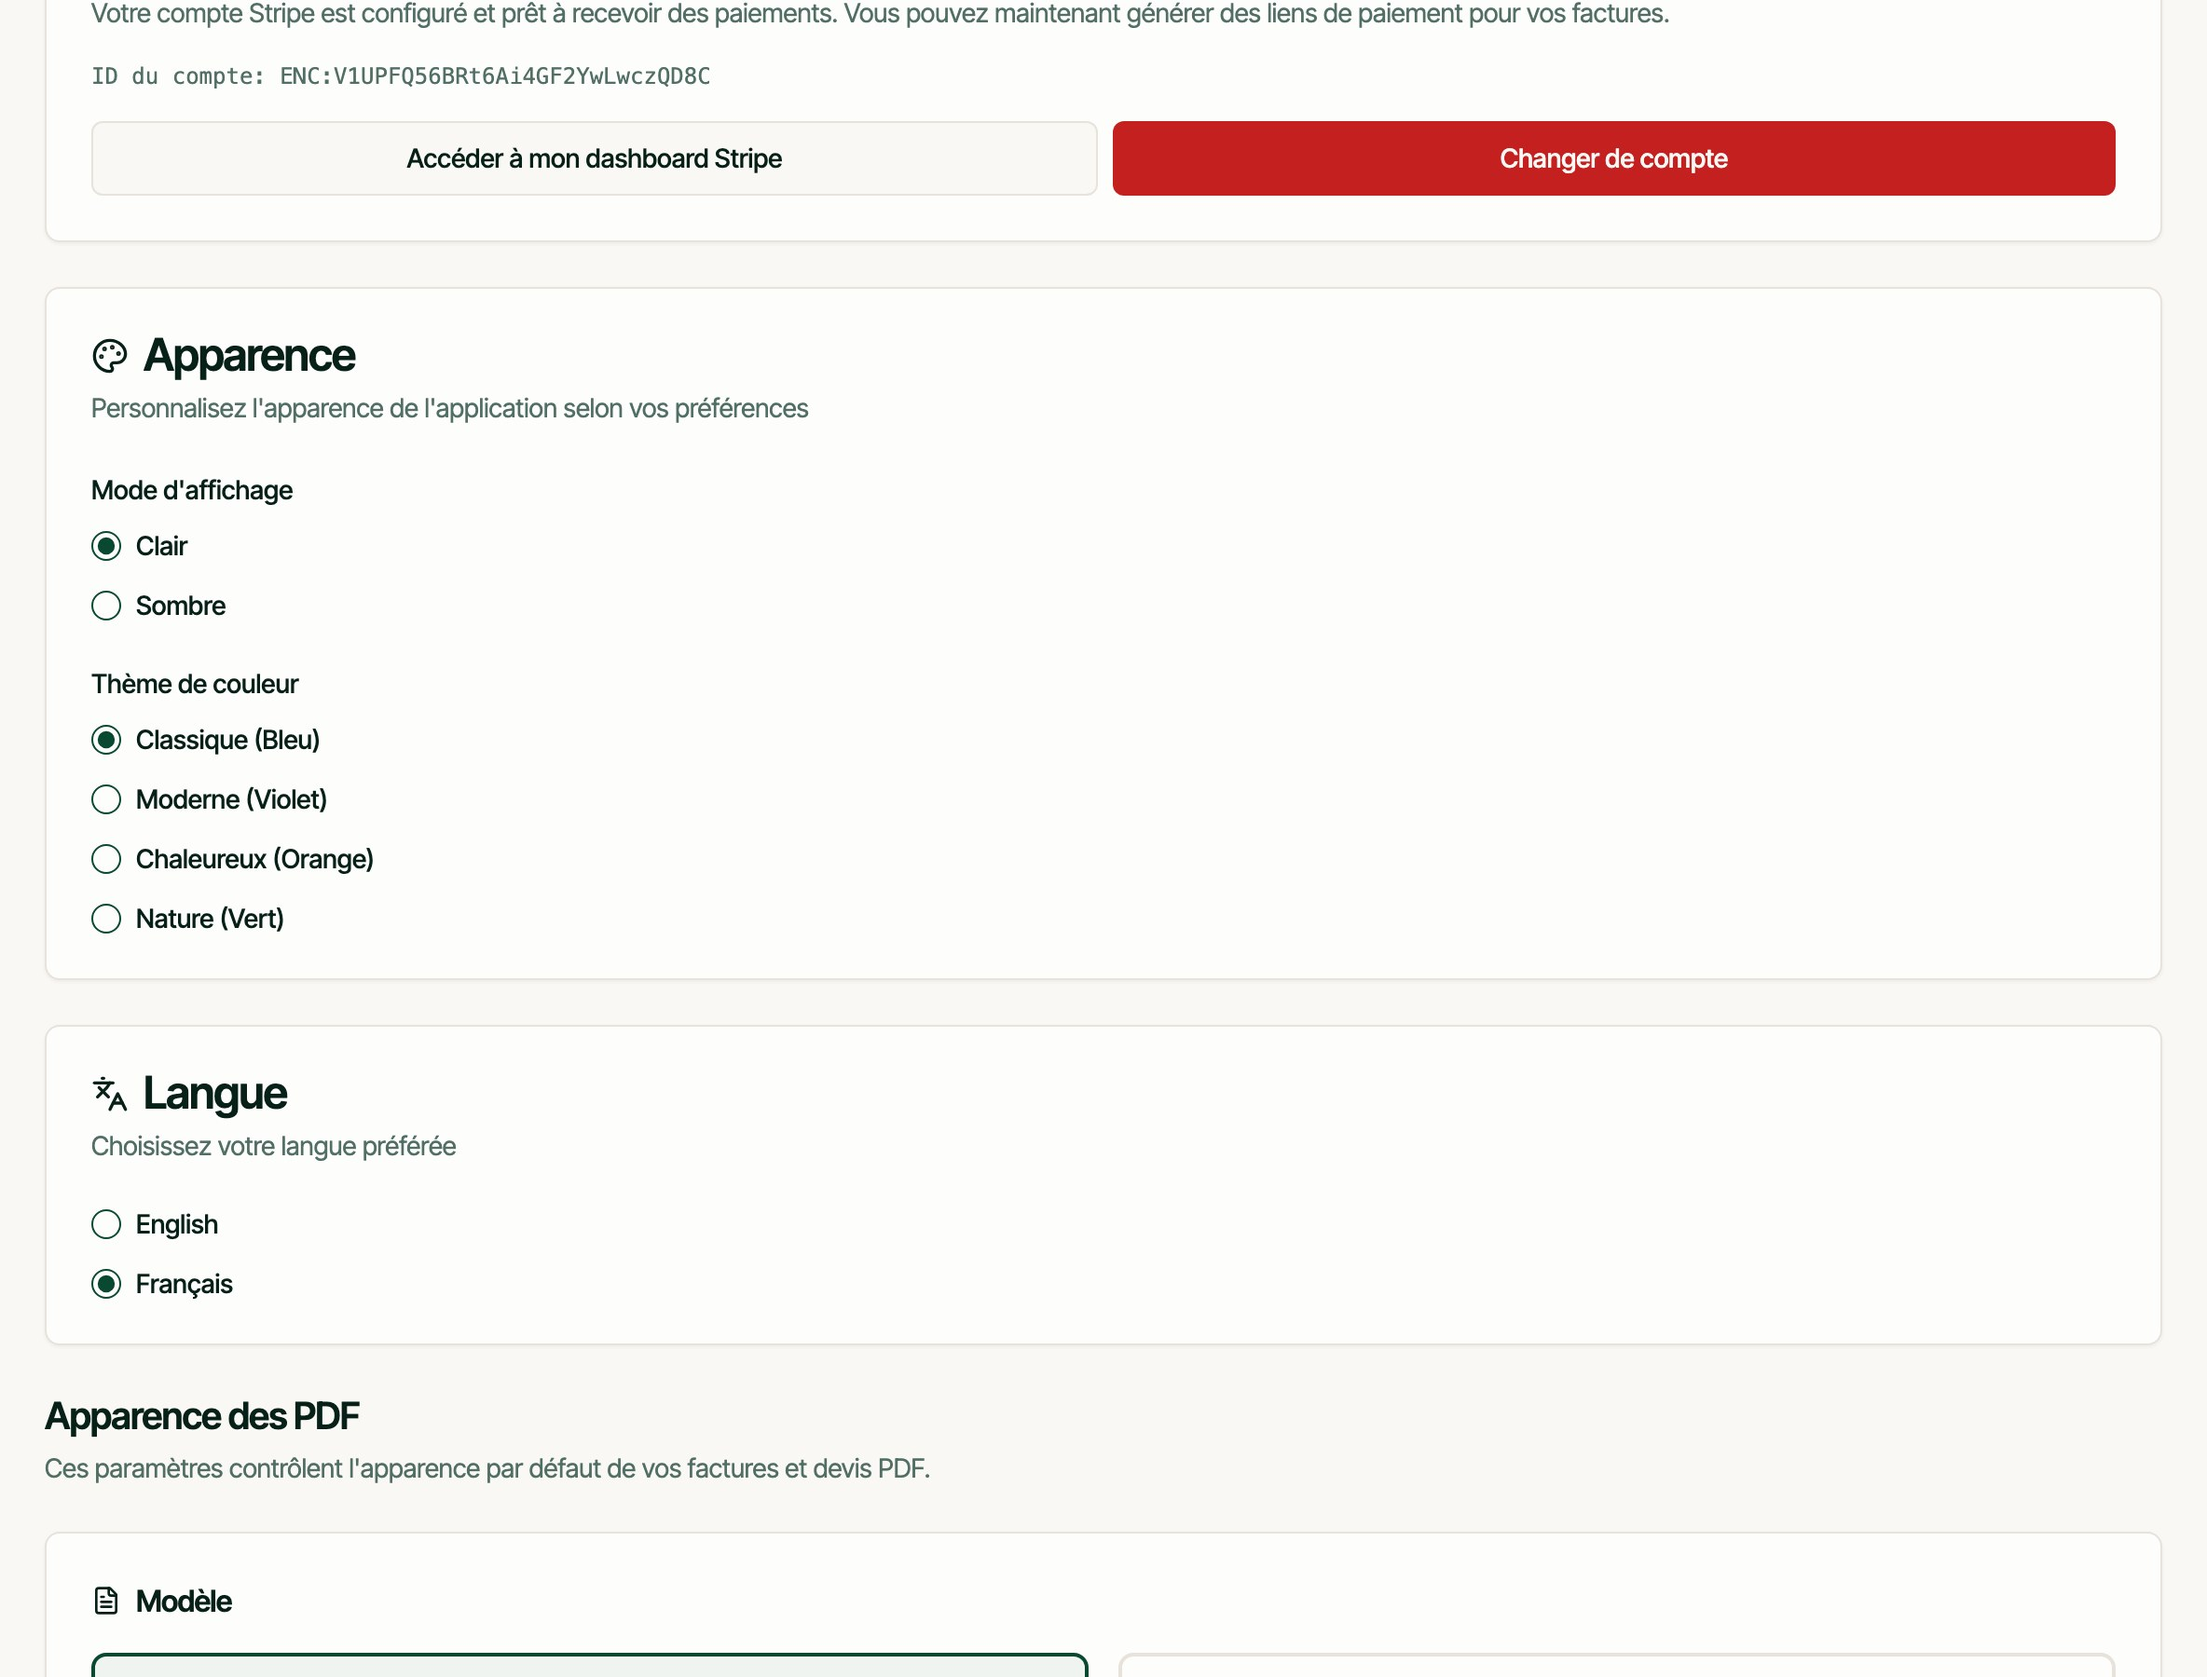
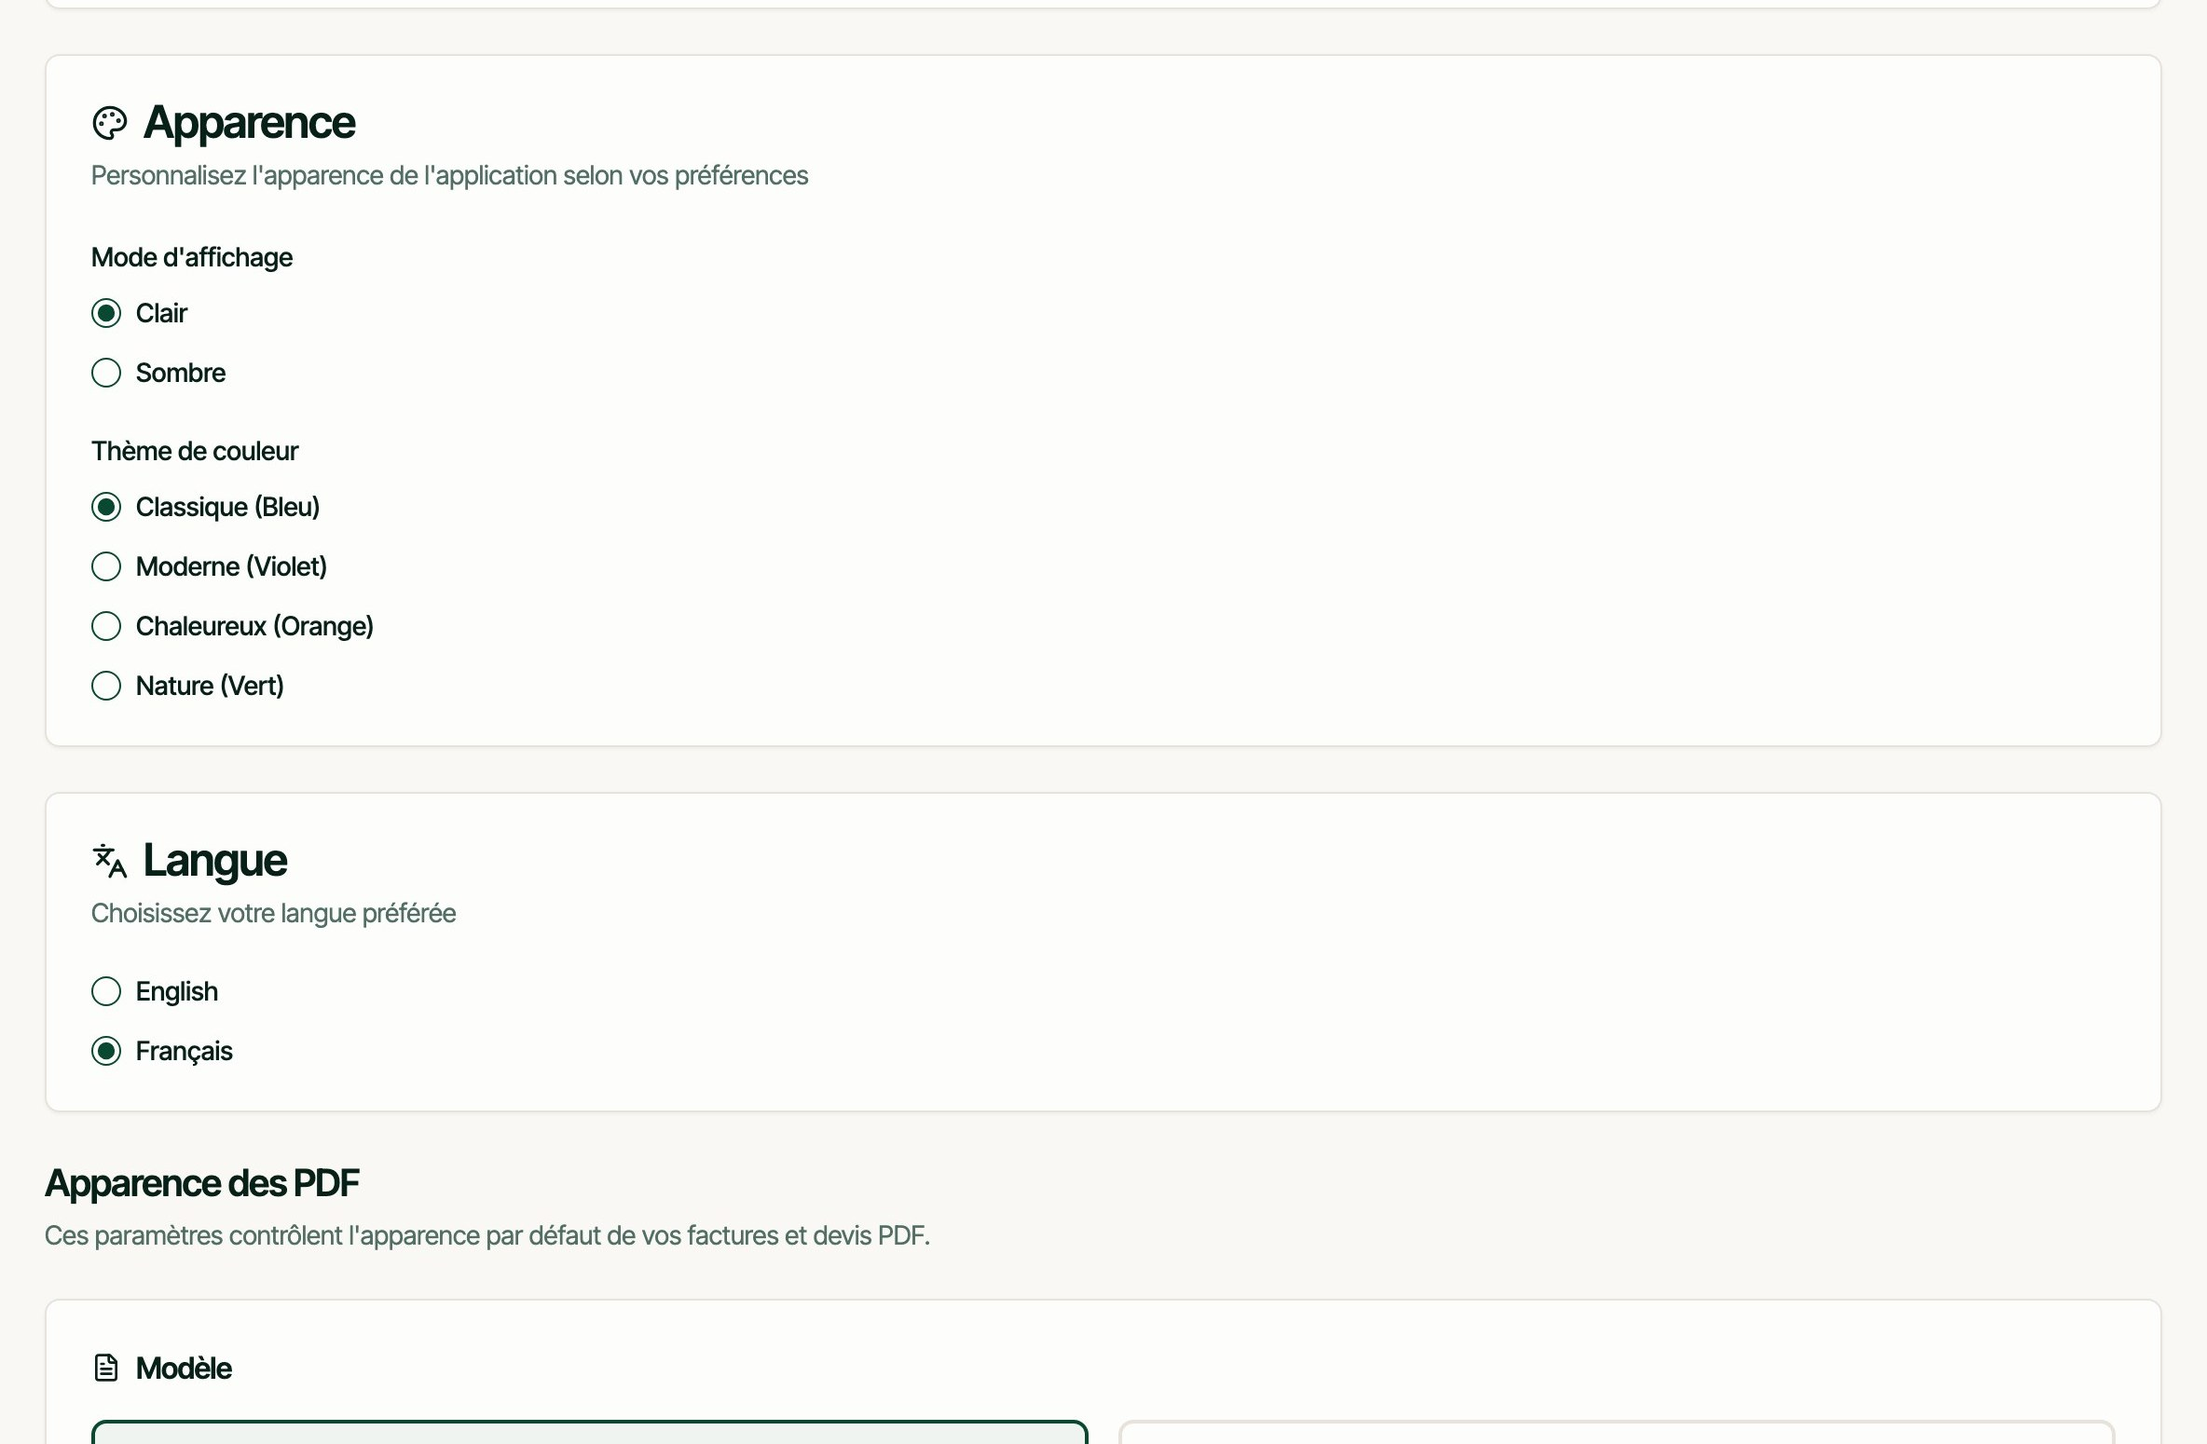
Hide Stripe account IDs from settings and marketing screenshots
Remove the account identifier from the Stripe payments card and replace the Software tab previews so the number is no longer visible.

diff --git a/src/pages/Settings.tsx b/src/pages/Settings.tsx
@@ -996,13 +996,6 @@ Cordialement,
                       ? "Votre compte Stripe est configuré et prêt à recevoir des paiements. Vous pouvez maintenant générer des liens de paiement pour vos factures." 
                       : "Your Stripe account is set up and ready to receive payments. You can now generate payment links for your invoices."}
                   </p>
-                  {/* Account ID only visible to Owner */}
-                  {isOwner && stripeAccountId && (
-                    <p className="text-xs text-muted-foreground font-mono">
-                      {language === "fr" ? "ID du compte: " : "Account ID: "}
-                      {stripeAccountId}
-                    </p>
-                  )}
                   {/* Action buttons only visible to Owner */}
                   {isOwner && (
                     <div className="flex gap-2">
@@ -1061,12 +1054,6 @@ Cordialement,
                           ? "Vous avez commencé la configuration de votre compte Stripe mais ne l'avez pas terminée. Vous pouvez continuer ou annuler pour changer de compte." 
                           : "You started setting up your Stripe account but didn't complete it. You can continue or cancel to change accounts."}
                       </p>
-                      {stripeAccountId && (
-                        <p className="text-xs text-muted-foreground font-mono">
-                          {language === "fr" ? "ID du compte: " : "Account ID: "}
-                          {stripeAccountId}
-                        </p>
-                      )}
                       <div className="flex gap-2">
                         <Button 
                           onClick={startOnboarding}
